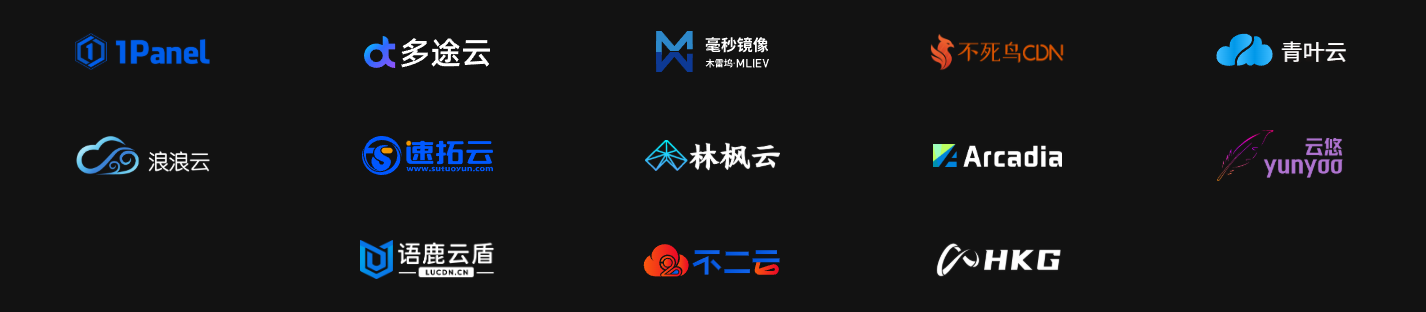
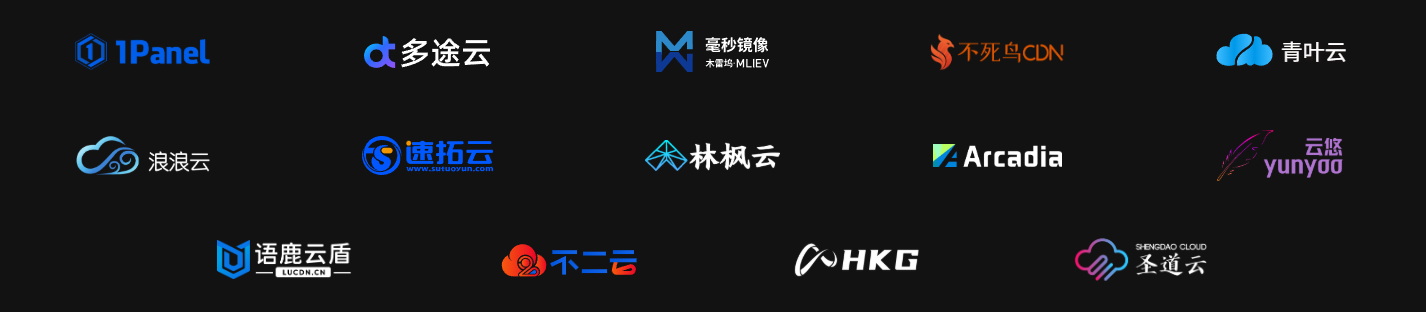
更新文档

Changed region(s): [[0.1543, 0.75, 0.864, 0.8942]]

diff --git a/docs/theme/partials/toc.html b/docs/theme/partials/toc.html
@@ -14,7 +14,7 @@
         <strong>{{'Sponsors' if i18n_page_locale == 'en' else '贊助商' if i18n_page_locale == 'zh-Hant' else '赞助商'}}</strong>
       </div>
       <div class="sponsor-wrapper sponsor-flex-wrapper-toc no-select">
-        <a class="sponsor-item sponsor-item-toc sponsor-item-toc-full-row" target="_blank" href="https://1panel.cn" title="新一代的 Linux 服务器运维管理面板">
+        <a class="sponsor-item sponsor-item-toc" target="_blank" href="https://1panel.cn" title="新一代的 Linux 服务器运维管理面板">
           <img src="/assets/images/sponsor/1panel.png" alt="1Panel" style="filter: grayscale(1) invert(0.6)" />
         </a>
         <a class="sponsor-item sponsor-item-toc" target="_blank" href="https://www.duotuyun.com" title="智能化防护，每一次连接皆在安全之下">
@@ -63,6 +63,10 @@
         <a class="sponsor-item sponsor-item-toc" target="_blank" href="https://www.hkgserver.com" title="HKGserver - 全球家宽｜双ISP｜住宅原生云服务器54元/月起">
           <img src="/assets/images/sponsor/hkgserver-light.png#only-light" alt="HKGserver" style="filter: grayscale(1) invert(0.5)" />
           <img src="/assets/images/sponsor/hkgserver-dark.png#only-dark" alt="HKGserver" style="filter: grayscale(1) invert(0.4)" />
+        </a>
+        <a class="sponsor-item sponsor-item-toc" target="_blank" href="https://www.shengdaoyun.com" title="海外特价云服务器：29元8核8G、9.9元2核2G，免预存6折">
+          <img src="/assets/images/sponsor/shengdaoyun-light.png#only-light" alt="圣道云" style="filter: grayscale(1) invert(0.4)" />
+          <img src="/assets/images/sponsor/shengdaoyun-dark.png#only-dark" alt="圣道云" style="filter: grayscale(1) invert(0.3)" />
         </a>
         <!-- <a class="sponsor-item sponsor-item-toc" target="_blank" title="{{'Become a Sponsor' if i18n_page_locale == 'en' else '成為贊助商' if i18n_page_locale == 'zh-Hant' else '成为赞助商'}}" href="/sponsor/">
           <span style="font-size: 0.6rem; opacity: 0.5">

diff --git a/docs/sponsor/main.html b/docs/sponsor/main.html
@@ -50,6 +50,10 @@
       <img src="/assets/images/sponsor/hkgserver-light.png#only-light" alt="HKGserver" />
       <img src="/assets/images/sponsor/hkgserver-dark.png#only-dark" alt="HKGserver" />
     </a>
+    <a class="sponsor-item sponsor-item-flex" target="_blank" href="https://www.shengdaoyun.com" title="海外特价云服务器：29元8核8G、9.9元2核2G，免预存6折">
+      <img src="/assets/images/sponsor/shengdaoyun-light.png#only-light" alt="圣道云" />
+      <img src="/assets/images/sponsor/shengdaoyun-dark.png#only-dark" alt="圣道云" />
+    </a>
   </div>
 </div>
 
